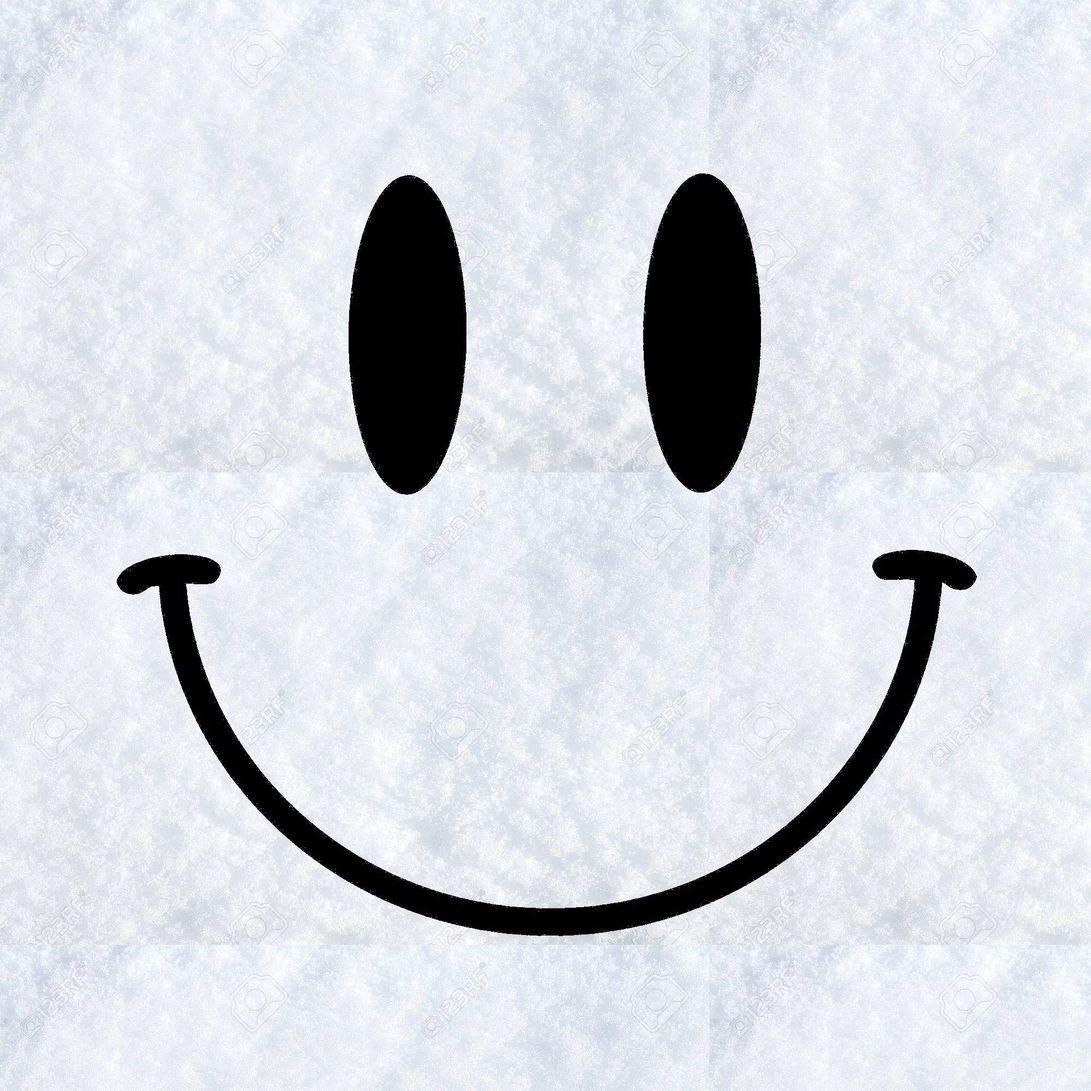
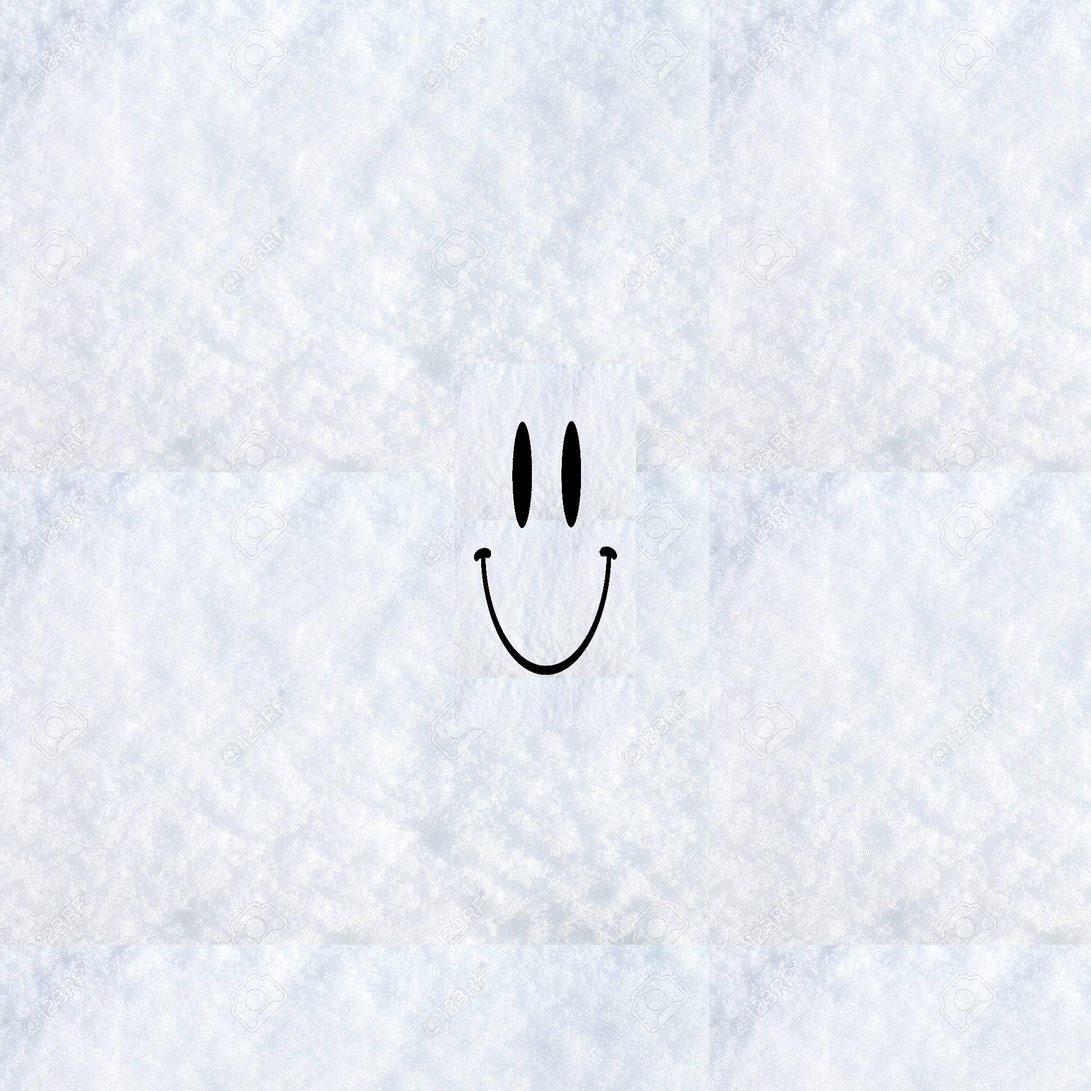
good texture for snow

diff --git a/data/images/convert.py b/data/images/convert.py
@@ -17,13 +17,23 @@ from PIL import Image
 # image.save("sameer.jpg")
 
 snowtex = np.array(Image.open("snowtex.jpg"));
-smiley = np.array(Image.open("yellosmiley.jpg"));
+smiley = np.array(Image.open("smiley.jpg"));
 bg = smiley[1001][1001]
 
 for i in range(len(smiley)):
     for j in range(len(smiley[0])):
-        if( smiley[i][j][0]>20 and smiley[i][j][1]>20 and smiley[i][j][2]>20 ):
             smiley[i][j] = snowtex[ i % snowtex.shape[0]][j%snowtex.shape[1]]
+
+rect = np.array(Image.open("newsmiley.jpg"));
+
+be_x = 666
+be_y = 1000 - 167
+
+for i in range(666):
+    for j in range(333):
+        smiley[i+be_x][j+be_y] = rect[i][j]
+
+
 
 newimage = Image.fromarray(smiley)
 newimage.save("newim.jpg")

diff --git a/genSphereVertices.cpp b/genSphereVertices.cpp
@@ -36,10 +36,10 @@ int main(int argc, char**argv){
             std::vector<float> temp;
             temp.push_back(x);temp.push_back(y);temp.push_back(z);
 
-            // float texX = 0.5*(theta/(M_PI)+1);
-            // float texY = phi/M_PI + 0.5;
-            float texX = ( theta + thetaLimit)/(2*thetaLimit);
-            float texY = (phi+phiLimit)/(2*phiLimit);
+            float texX = 0.5*(theta/(M_PI)+1);
+            float texY = phi/M_PI + 0.5;
+            // float texX = ( theta + thetaLimit)/(2*thetaLimit);
+            // float texY = (phi+phiLimit)/(2*phiLimit);
             temp.push_back(texX);
             temp.push_back(texY);
 
